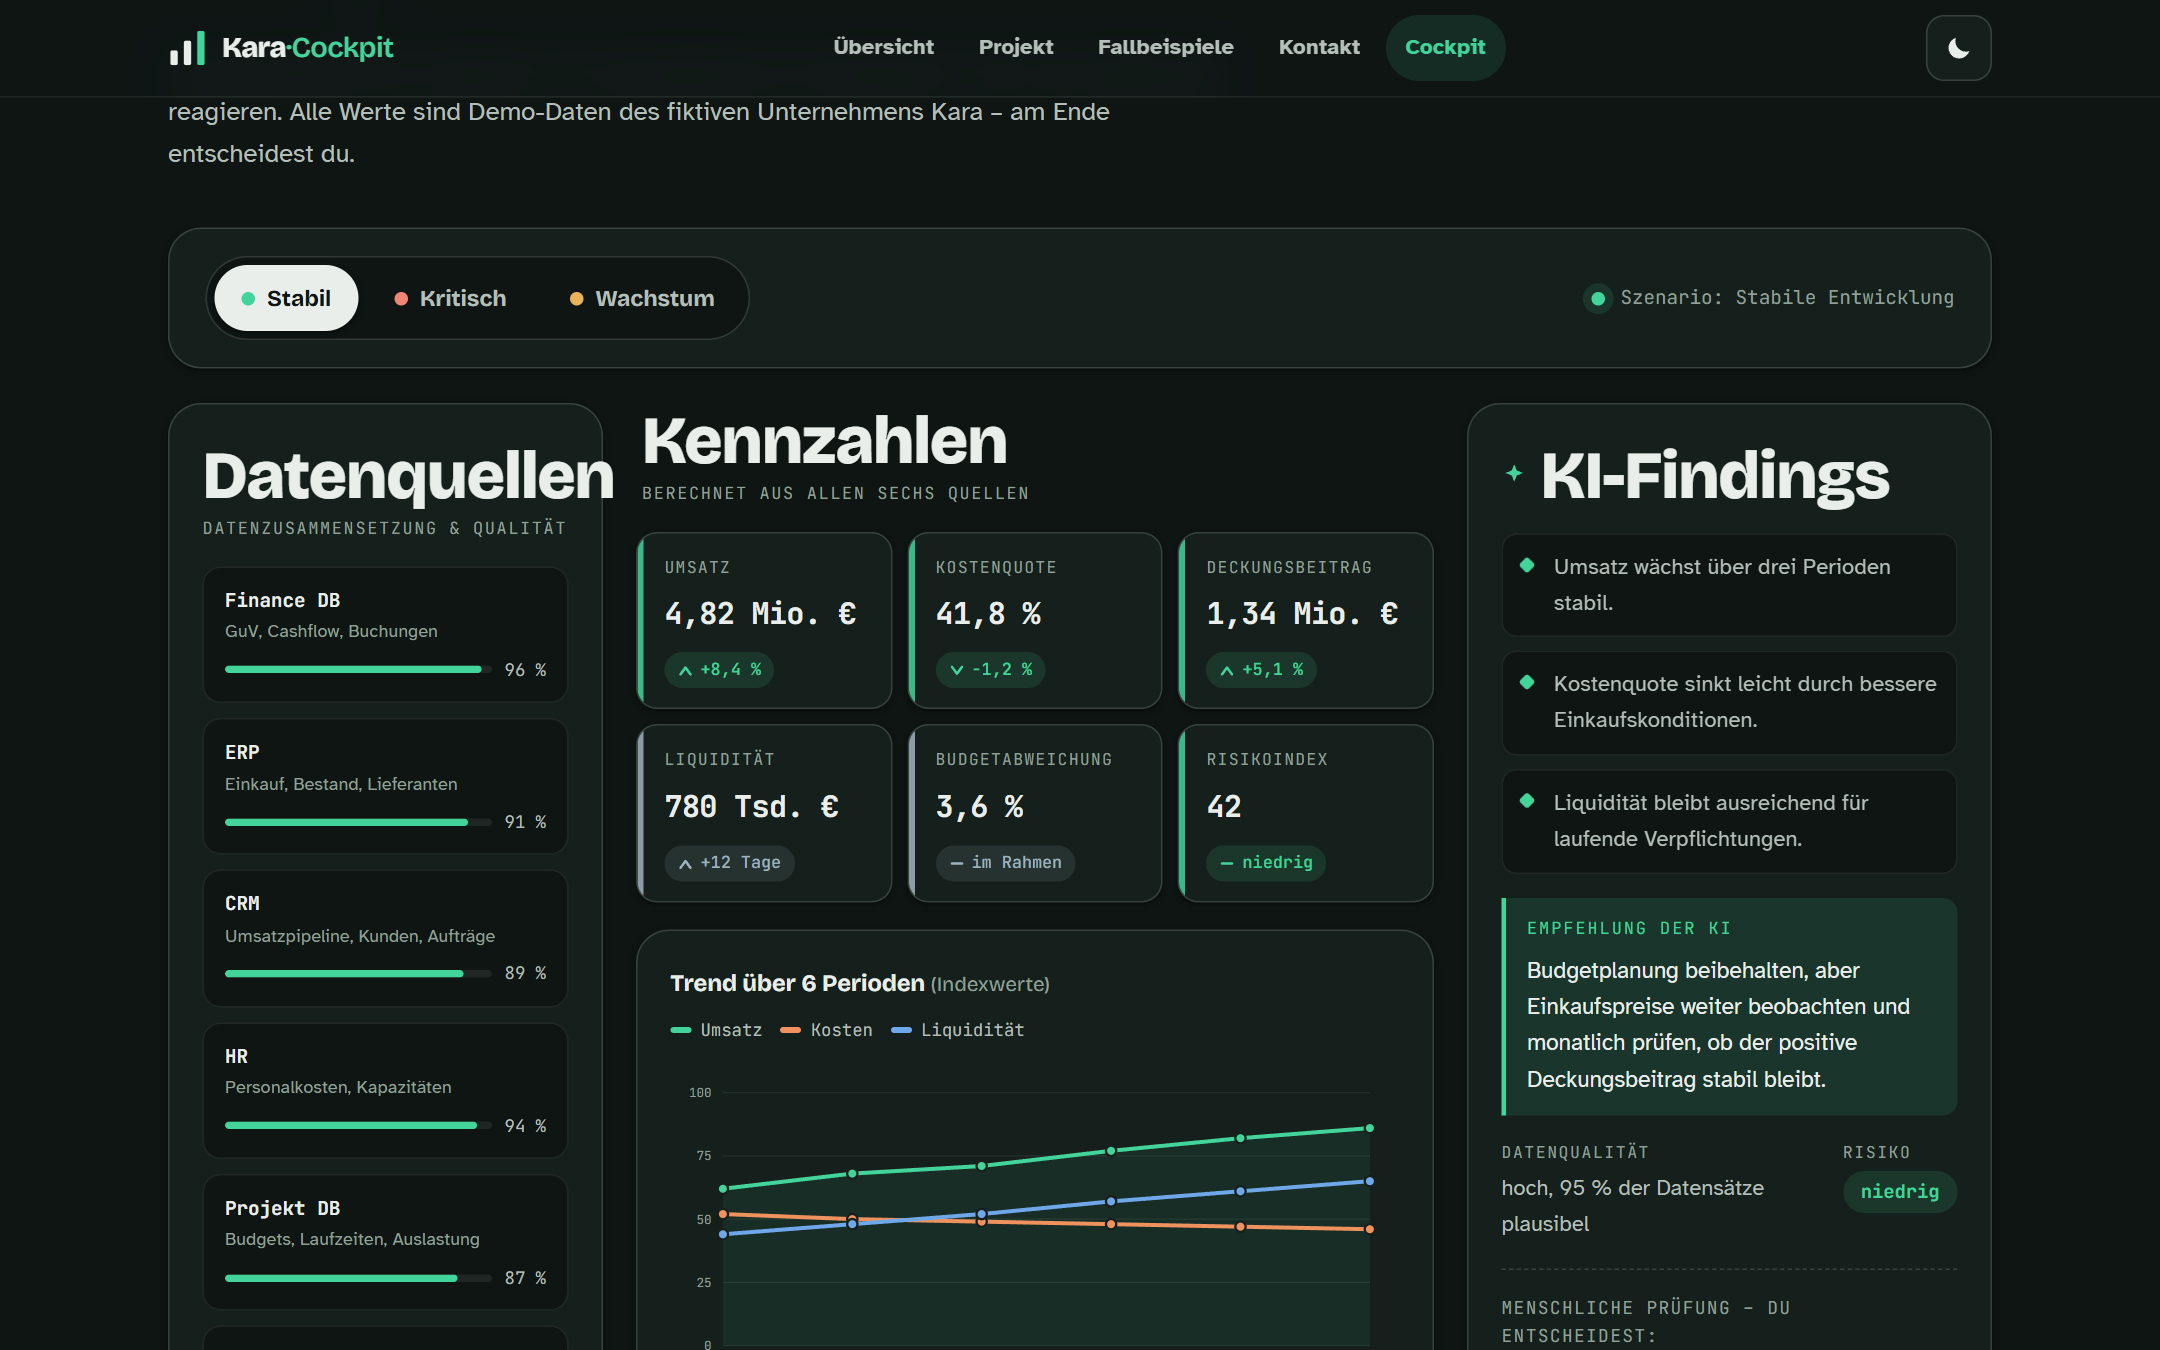
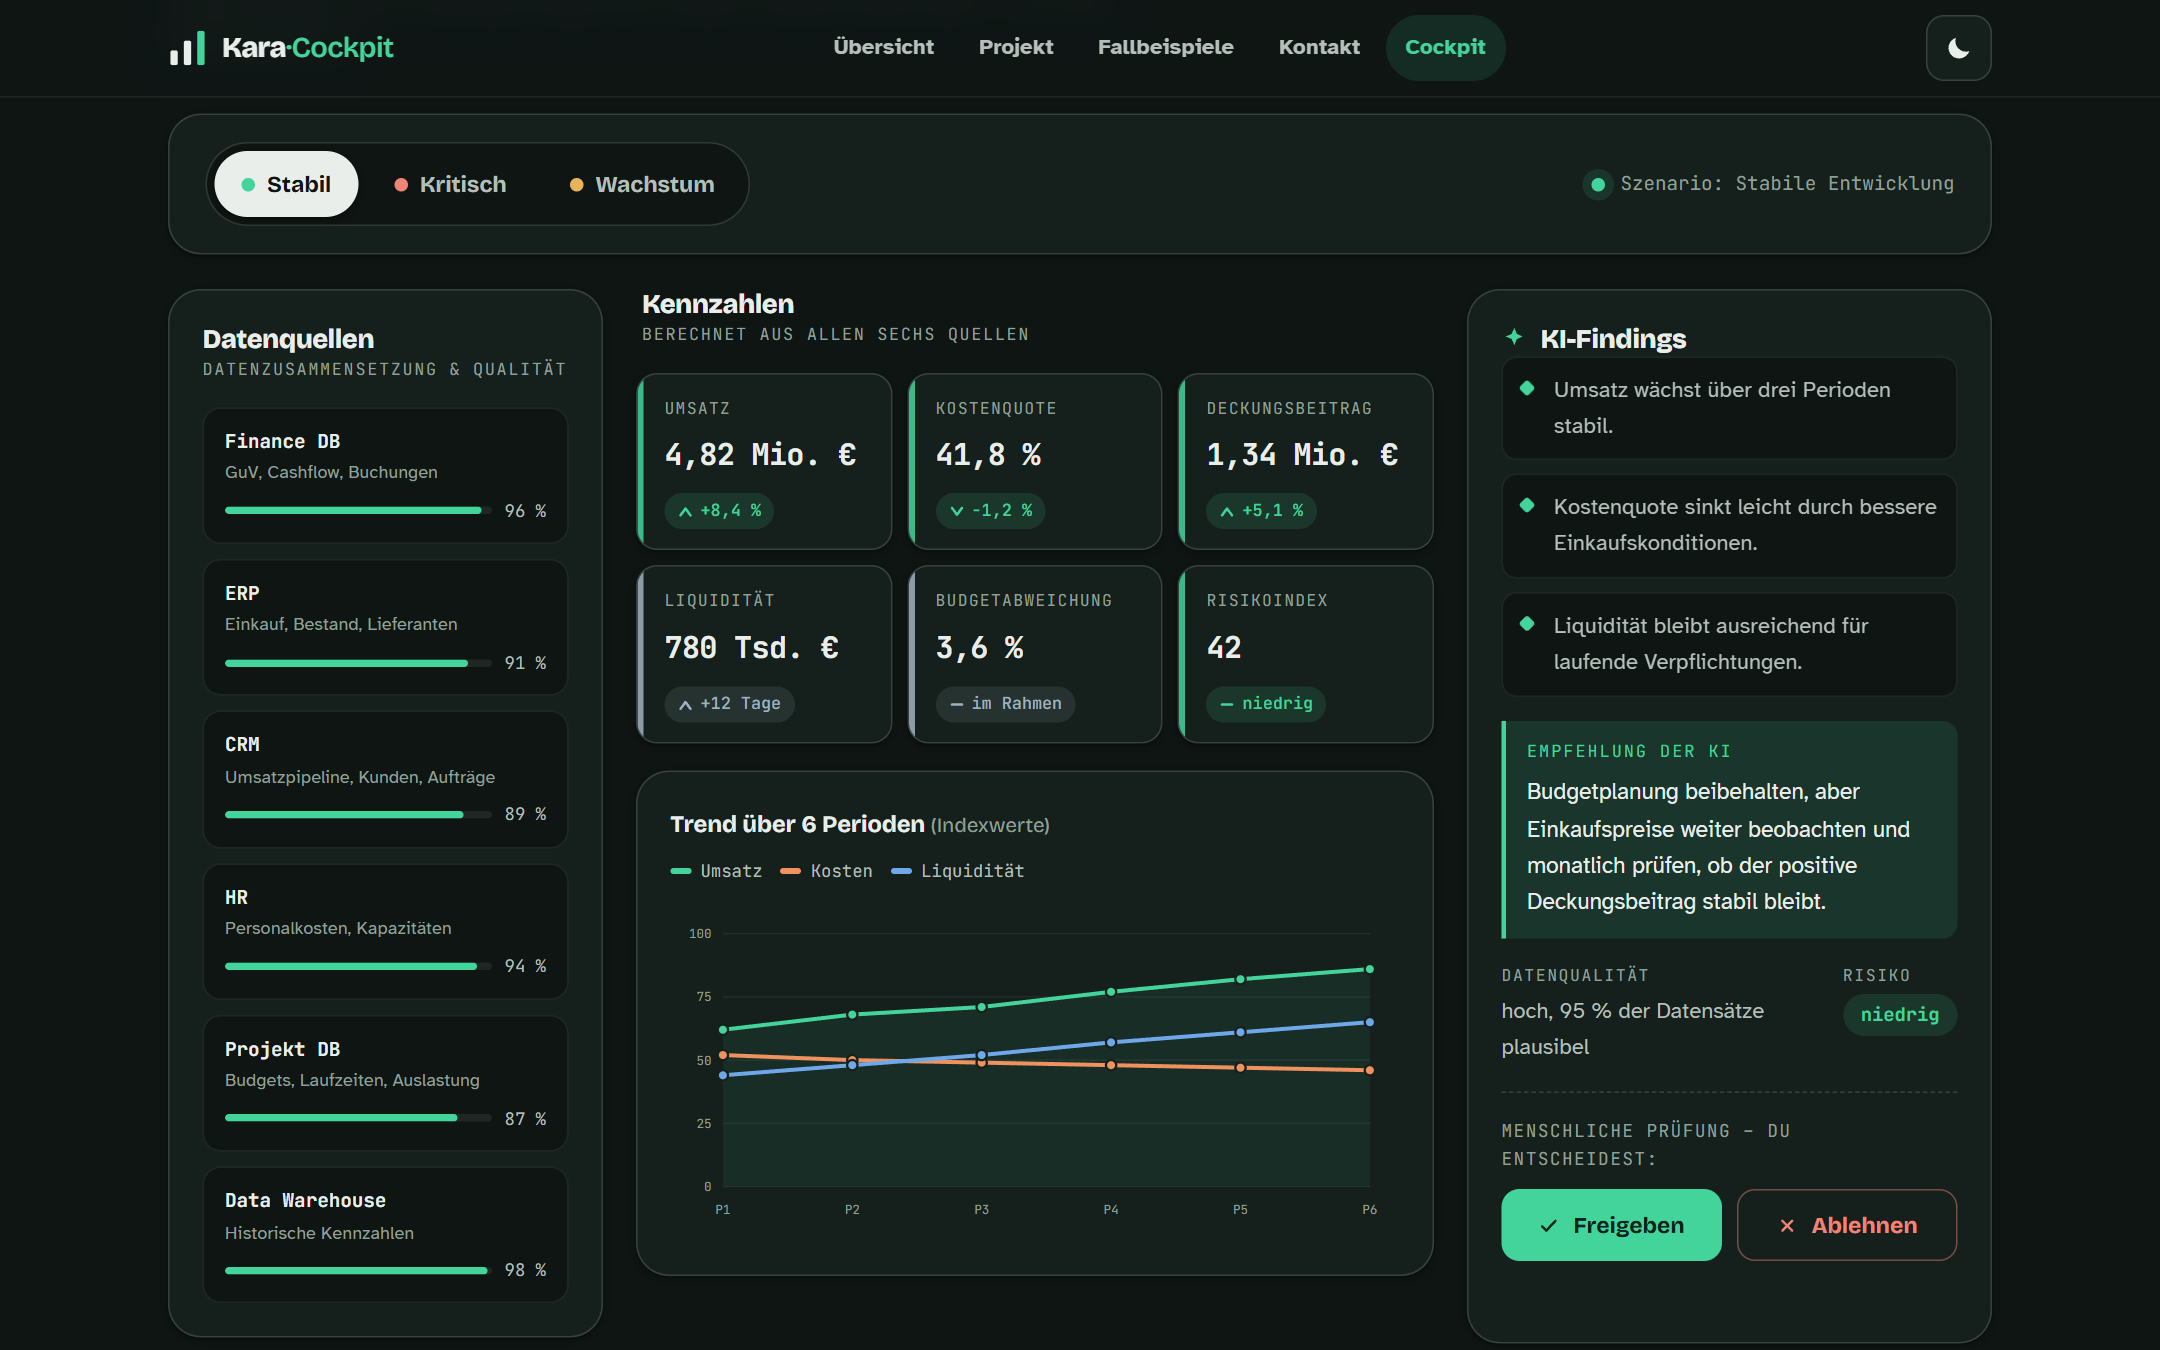
Textüberlauf in Karten beheben
Cockpit-Spaltentitel (Datenquellen/Kennzahlen/KI-Findings) wurden von
.section h2 überschrieben und sprengten die Boxen – .col-title jetzt
unter .cockpit-layout gescoped (höhere Spezifität). KPI-Werte der
Homepage ("4,82 Mio. €") stießen bei voller Breite an den Kartenrand –
Wertgröße und Innenabstand leicht reduziert. Vorschaubild aktualisiert.

diff --git a/website/styles.css b/website/styles.css
@@ -611,7 +611,7 @@ button {
   background: var(--bg-elev);
   border: 1px solid var(--line);
   border-radius: var(--radius-lg);
-  padding: clamp(18px, 2vw, 26px) clamp(16px, 1.8vw, 24px);
+  padding: clamp(18px, 2vw, 24px) clamp(14px, 1.4vw, 20px);
   box-shadow: var(--shadow-sm);
   min-width: 0;
   transition: transform 0.25s ease, box-shadow 0.25s ease, border-color 0.25s ease;
@@ -638,8 +638,8 @@ button {
   margin: 10px 0 12px;
   font-family: var(--font-display);
   font-weight: 800;
-  font-size: clamp(1.45rem, 1.1rem + 1.2vw, 2.1rem);
-  letter-spacing: -0.02em;
+  font-size: clamp(1.3rem, 1.0rem + 0.95vw, 1.7rem);
+  letter-spacing: -0.025em;
   font-variant-numeric: tabular-nums;
   white-space: nowrap;
 }
@@ -1379,9 +1379,11 @@ button {
 }
 .cockpit-col-main { background: transparent; border: none; box-shadow: none; padding: 0; }
 
-.col-title {
-  font-size: 1.08rem;
+.cockpit-layout .col-title {
+  font-size: 1.12rem;
+  font-weight: 800;
   margin: 0 0 2px;
+  max-width: 100%;
 }
 .col-sub {
   font-family: var(--font-mono);
